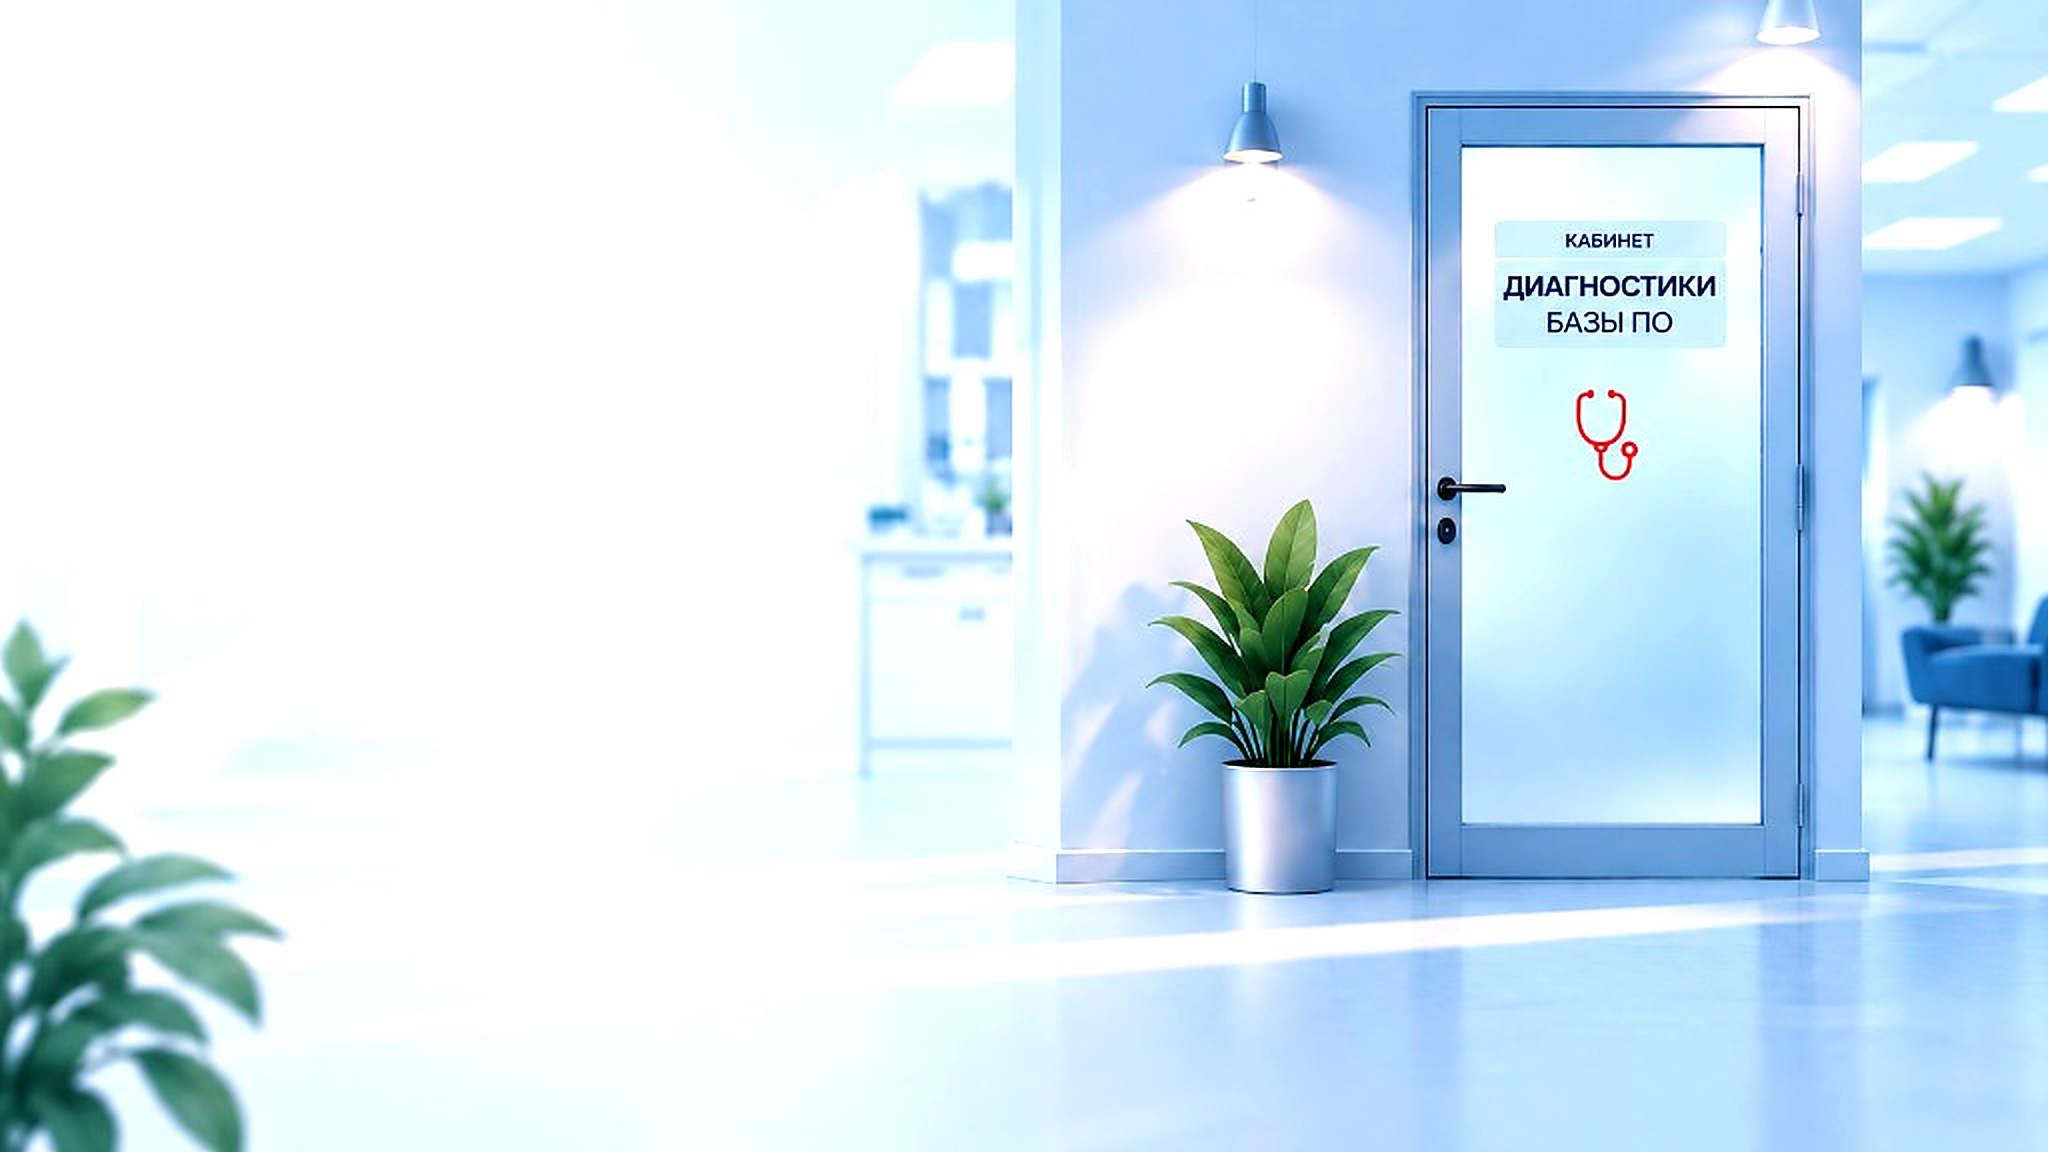
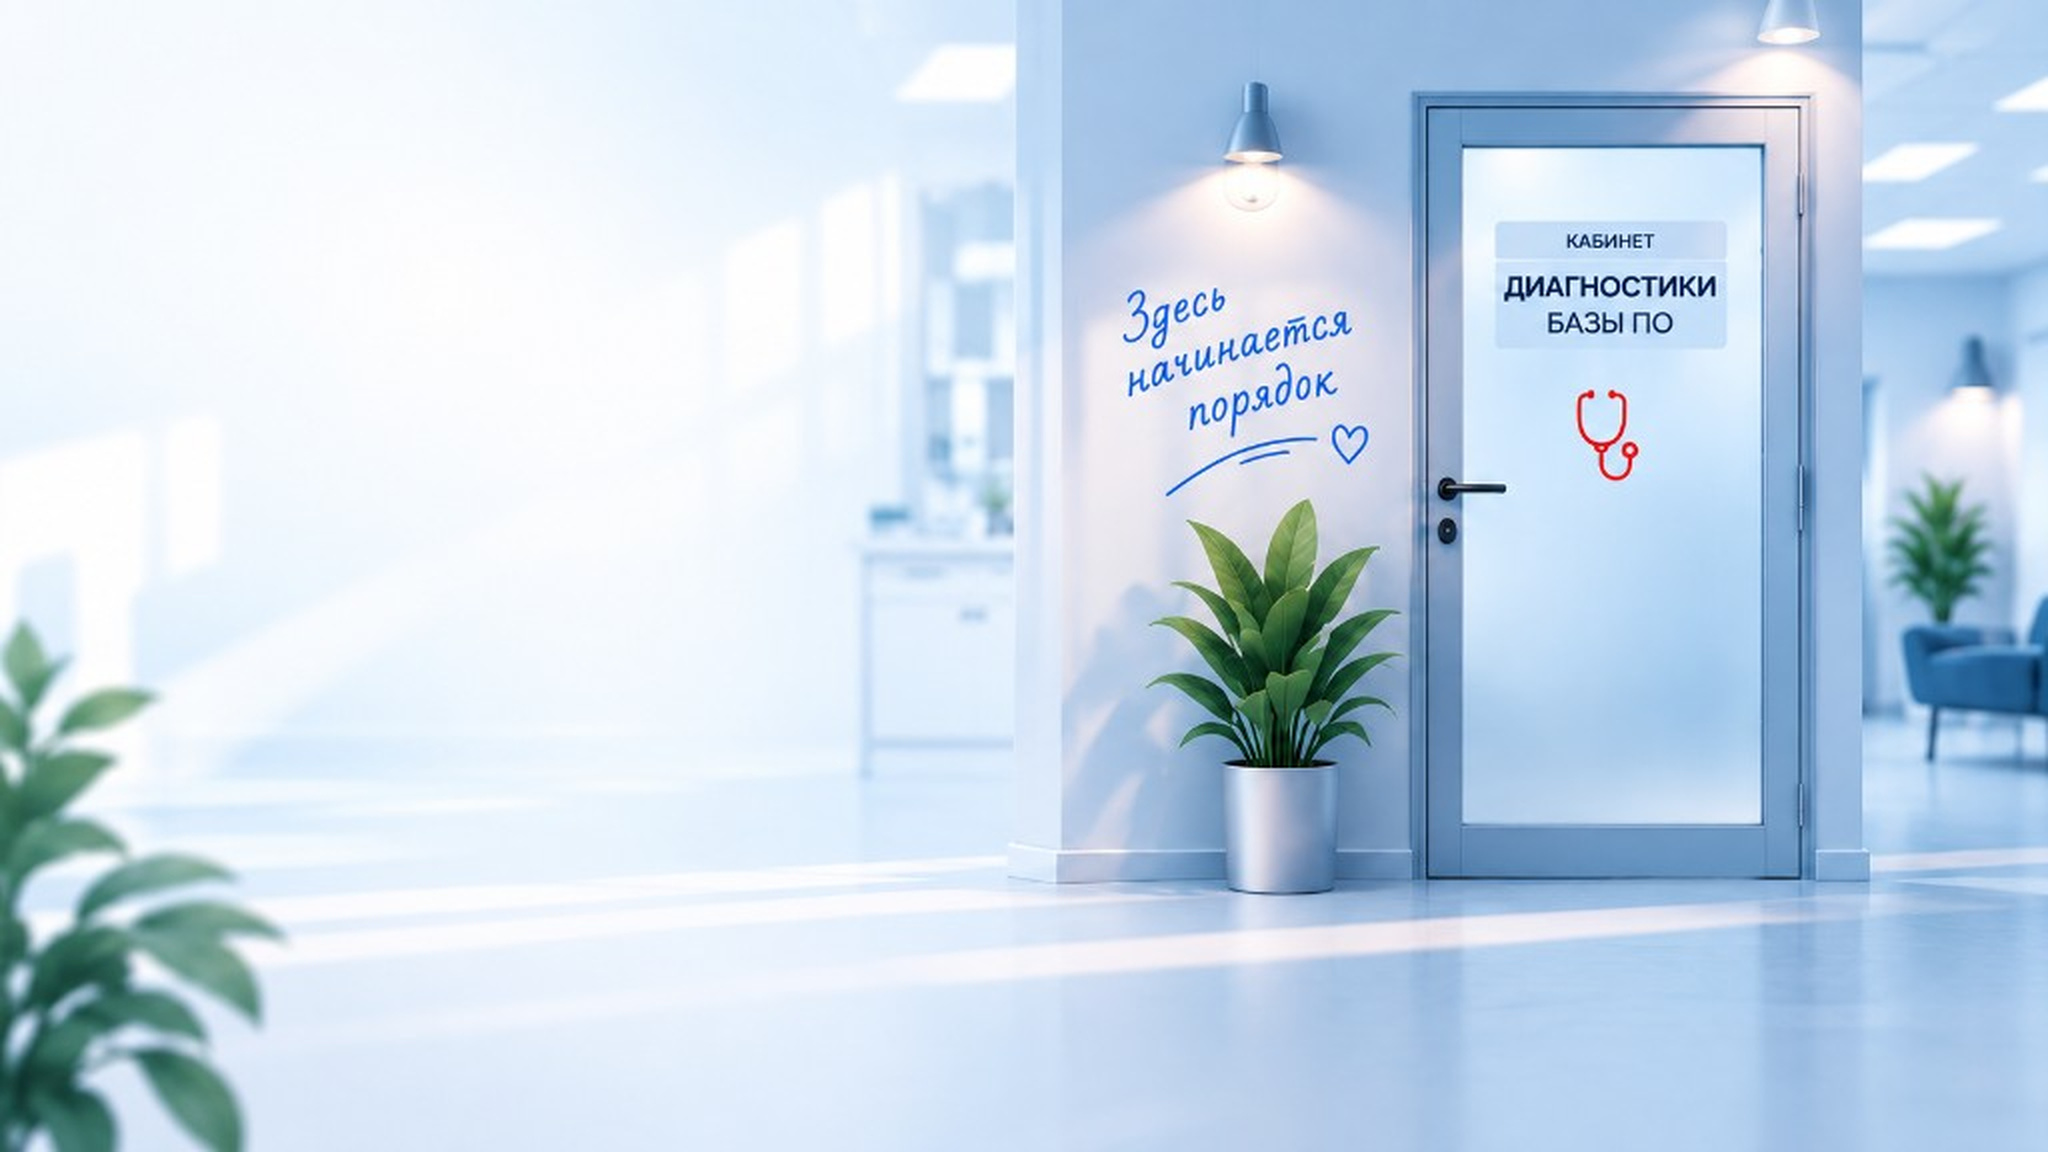
Заменить фон кабинета на мягкое фото без переконтраста.

diff --git a/kabinet-diagnostiki/styles.css b/kabinet-diagnostiki/styles.css
@@ -57,22 +57,21 @@ button{font:inherit}
 }
 .hero__bg{
   position:absolute; inset:0; width:100%; height:100%;
-  object-fit:cover; object-position: 55% 38%;
+  object-fit:cover; object-position: 58% 40%;
   z-index:0; pointer-events:none;
-  filter: brightness(1.1) contrast(1.05) saturate(1.08);
 }
 .hero__veil{
   position:absolute; inset:0; z-index:1; pointer-events:none;
   background:
     linear-gradient(90deg,
-      rgba(255,255,255,.42) 0%,
-      rgba(255,255,255,.18) 30%,
-      rgba(255,255,255,.04) 48%,
-      transparent 62%),
+      rgba(255,255,255,.38) 0%,
+      rgba(255,255,255,.14) 32%,
+      rgba(255,255,255,.03) 50%,
+      transparent 64%),
     linear-gradient(180deg,
-      rgba(255,255,255,.1) 0%,
-      transparent 40%,
-      rgba(245,246,248,.28) 100%);
+      rgba(255,255,255,.08) 0%,
+      transparent 42%,
+      rgba(245,246,248,.22) 100%);
 }
 .hero__content{
   position:relative;
@@ -162,13 +161,13 @@ textarea:focus{outline:2px solid rgba(221,12,41,.25);border-color:var(--red)}
 @media (max-width:760px){
   .wrap{padding:0 16px}
   .hero{min-height:0;padding:12px 0 120px}
-  .hero__bg{object-position:72% 40%; filter:brightness(1.06) contrast(1.04)}
+  .hero__bg{object-position:72% 40%}
   .hero__veil{
     background:
       linear-gradient(180deg,
-        rgba(255,255,255,.55) 0%,
-        rgba(255,255,255,.35) 50%,
-        rgba(245,246,248,.75) 100%);
+        rgba(255,255,255,.5) 0%,
+        rgba(255,255,255,.3) 50%,
+        rgba(245,246,248,.7) 100%);
   }
   .top{height:64px;margin-bottom:20px;gap:10px}
   .top .sub{display:none}

diff --git a/kabinet-diagnostiki/index.html b/kabinet-diagnostiki/index.html
@@ -7,12 +7,12 @@
   <title>Кабинет диагностики — Клиника чистых данных | ИТМен</title>
   <meta name="description" content="Бесплатный кабинет диагностики базы ПО: загрузите выгрузку, получите индекс чистоты, карту симптомов и сверку с эталонным каталогом. Данные не покидают ваш компьютер.">
   <link rel="icon" href="assets/logo.svg" type="image/svg+xml">
-  <link rel="stylesheet" href="styles.css?v=5">
+  <link rel="stylesheet" href="styles.css?v=6">
 </head>
 <body>
 
 <section class="hero">
-  <img class="hero__bg" src="assets/hero-clinic.jpg?v=5" alt="" aria-hidden="true">
+  <img class="hero__bg" src="assets/hero-clinic.jpg?v=6" alt="" aria-hidden="true">
   <div class="hero__veil" aria-hidden="true"></div>
 
   <div class="wrap hero__inner">
